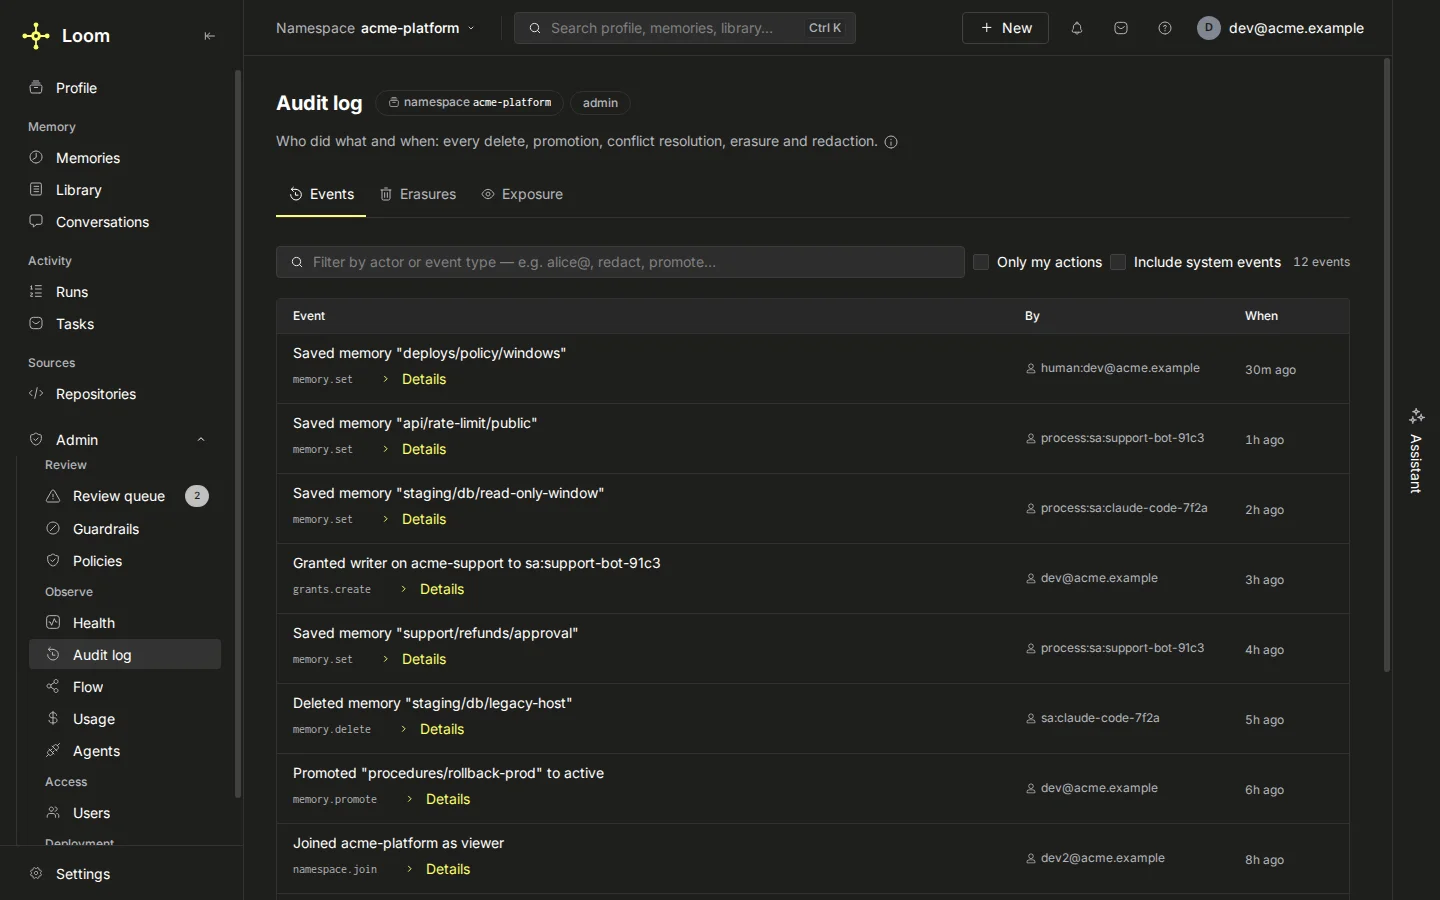
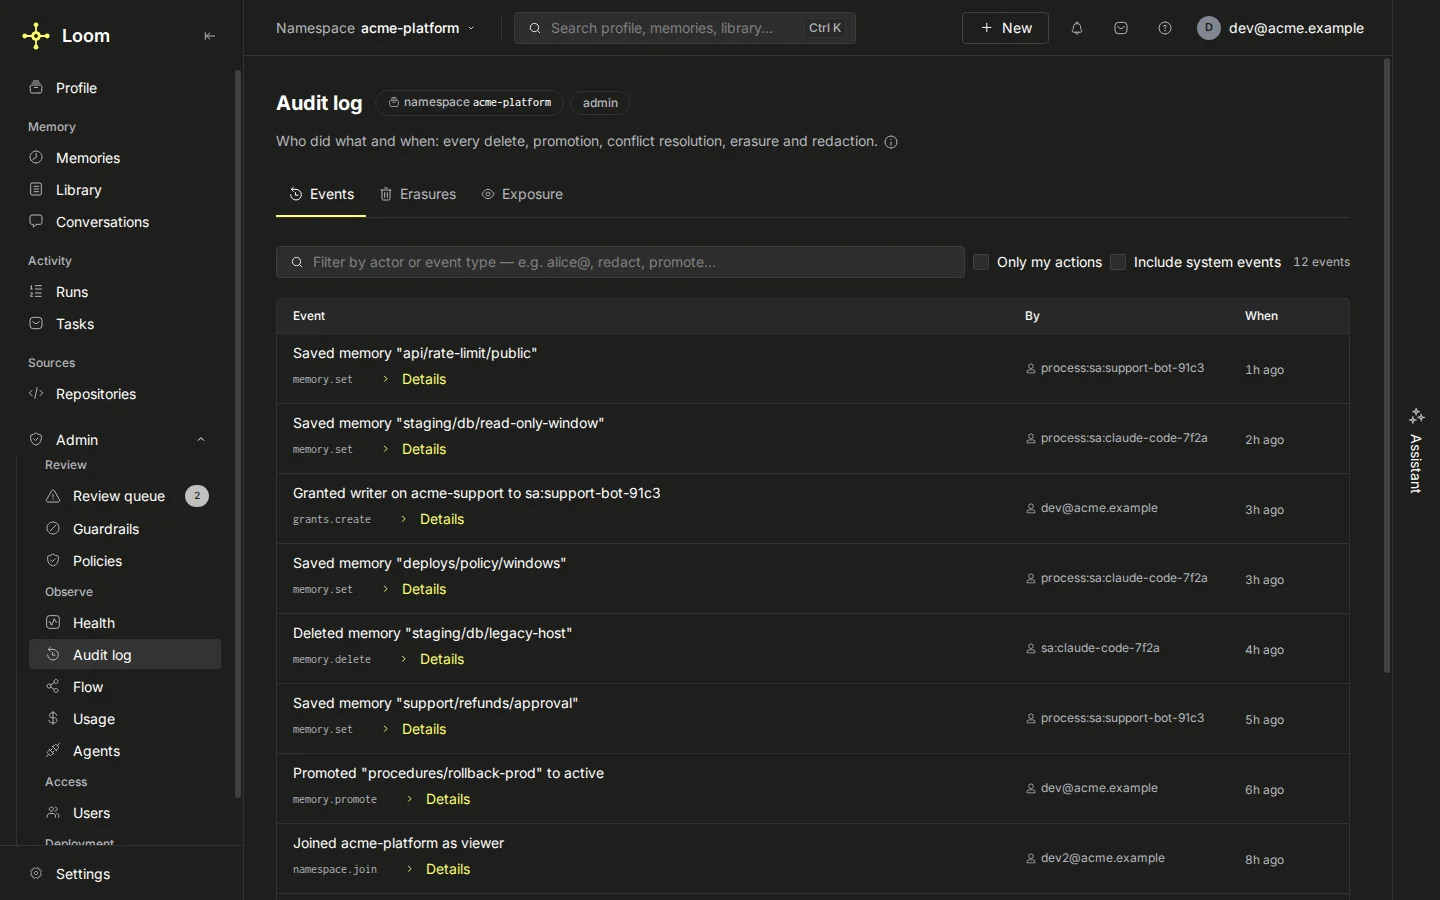
Each audit row's memory write is as old as the memory the list shows, the debug hook is one, and the README's search alt names all three passages

diff --git a/frontend/e2e/docs-screenshots.spec.ts b/frontend/e2e/docs-screenshots.spec.ts
@@ -724,14 +724,13 @@ const PASSAGES = [
   },
 ];
 
-/** The Audit log's events, each with the subject its op records (its input, or its
- *  `audit_subject`). A memory write names its writer as `kind:subject`; any other audited op
- *  names the token's subject. */
 const AGENT_SUBJECT = "sa:claude-code-7f2a";
 const AGENT_WRITER = `process:${AGENT_SUBJECT}`;
 const BOT_WRITER = "process:sa:support-bot-91c3";
+/** The Audit log's events, with the subject fields the Audit log's labels read. A memory
+ *  write names its writer as `kind:subject`; any other audited op names the token's
+ *  subject. Each memory write is as old as the memory it saved. */
 const AUDIT_ROWS = [
-  { h: 0.5, event_type: "memory.set", actor: `human:${SUBJECT}`, subject: { memory_key: "deploys/policy/windows" } },
   { h: 1.5, event_type: "memory.set", actor: BOT_WRITER, subject: { memory_key: "api/rate-limit/public" } },
   { h: 2.0, event_type: "memory.set", actor: AGENT_WRITER, subject: { memory_key: "staging/db/read-only-window" } },
   {
@@ -740,8 +739,9 @@ const AUDIT_ROWS = [
     actor: SUBJECT,
     subject: { role: "writer", namespace: NS_SUPPORT, subject: "sa:support-bot-91c3" },
   },
-  { h: 4.4, event_type: "memory.set", actor: BOT_WRITER, subject: { memory_key: "support/refunds/approval" } },
-  { h: 5.0, event_type: "memory.delete", actor: AGENT_SUBJECT, subject: { memory_key: "staging/db/legacy-host" } },
+  { h: 3.5, event_type: "memory.set", actor: AGENT_WRITER, subject: { memory_key: "deploys/policy/windows" } },
+  { h: 4.6, event_type: "memory.delete", actor: AGENT_SUBJECT, subject: { memory_key: "staging/db/legacy-host" } },
+  { h: 5.0, event_type: "memory.set", actor: BOT_WRITER, subject: { memory_key: "support/refunds/approval" } },
   { h: 6.7, event_type: "memory.promote", actor: SUBJECT, subject: { memory_key: "procedures/rollback-prod" } },
   { h: 8.2, event_type: "namespace.join", actor: "dev2@acme.example", subject: { namespace: NS, role: "viewer" } },
   { h: 12.0, event_type: "knowledge.delete", actor: SUBJECT, subject: { source_uri: "runbooks/old-pager-rota.md" } },
@@ -1118,6 +1118,12 @@ async function settle(page: Page): Promise<void> {
   await page.mouse.move(0, 0);
 }
 
+// The unmocked calls each test made, printed with LOOM_DOCS_DEBUG=1.
+test.afterEach(() => {
+  if (process.env.LOOM_DOCS_DEBUG) console.log(debugCalls.join("\n"));
+  debugCalls.length = 0;
+});
+
 async function capture(page: Page, name: string): Promise<void> {
   fs.mkdirSync(OUT, { recursive: true });
   await settle(page);
@@ -1214,11 +1220,6 @@ test.describe("docs screenshots", () => {
   test.skip(!ENABLED, "set LOOM_DOCS_SCREENSHOTS=1 to regenerate docs/images");
   test.use({ viewport: { width: 1400, height: 900 }, deviceScaleFactor: 2, colorScheme: "dark" });
 
-  test.afterEach(() => {
-    if (process.env.LOOM_DOCS_DEBUG) console.log(debugCalls.join("\n"));
-    debugCalls.length = 0;
-  });
-
   test("memories", async ({ page }) => {
     await installDemoApi(page);
     await page.goto("/memories");
@@ -1284,11 +1285,6 @@ test.describe("docs screenshots at 1440 px", () => {
   test.skip(!ENABLED, "set LOOM_DOCS_SCREENSHOTS=1 to regenerate docs/assets/screenshots");
   test.use({ viewport: { width: 1440, height: 900 }, deviceScaleFactor: 1, colorScheme: "dark" });
 
-  test.afterEach(() => {
-    if (process.env.LOOM_DOCS_DEBUG) console.log(debugCalls.join("\n"));
-    debugCalls.length = 0;
-  });
-
   test("memory linked files", async ({ page }) => {
     await installDemoApi(page);
     await steps.linkedCode(page);
@@ -1343,11 +1339,6 @@ test.describe("docs clips", () => {
   // Smaller than the shots: a clip plays inline at page width, where 1280 px reads the same
   // and the file stays small.
   const SIZE = { width: 1280, height: 800 };
-
-  test.afterEach(() => {
-    if (process.env.LOOM_DOCS_DEBUG) console.log(debugCalls.join("\n"));
-    debugCalls.length = 0;
-  });
 
   async function record(browser: Browser, name: string, run: (page: Page) => Promise<void>): Promise<void> {
     const dir = fs.mkdtempSync(path.join(os.tmpdir(), "loom-clip-"));

diff --git a/README.md b/README.md
@@ -29,7 +29,7 @@
 
 <p>
   <img src="./docs/assets/screenshots/memories.webp" width="32%" alt="Loom dashboard showing shared agent memories, a pinned fact and flagged conflicts">
-  <img src="./docs/assets/screenshots/document-search.webp" width="32%" alt="Library search: passages from a refunds policy and an on-call runbook, each cited by document, revision and lines">
+  <img src="./docs/assets/screenshots/document-search.webp" width="32%" alt="Library search: three passages from a refunds policy, an on-call runbook and an FX note, each cited by document, revision and lines">
   <img src="./docs/assets/screenshots/code-callers.webp" width="32%" alt="A repository's Explore tab: payments.fx.convert with its definition and callers">
 </p>
 
